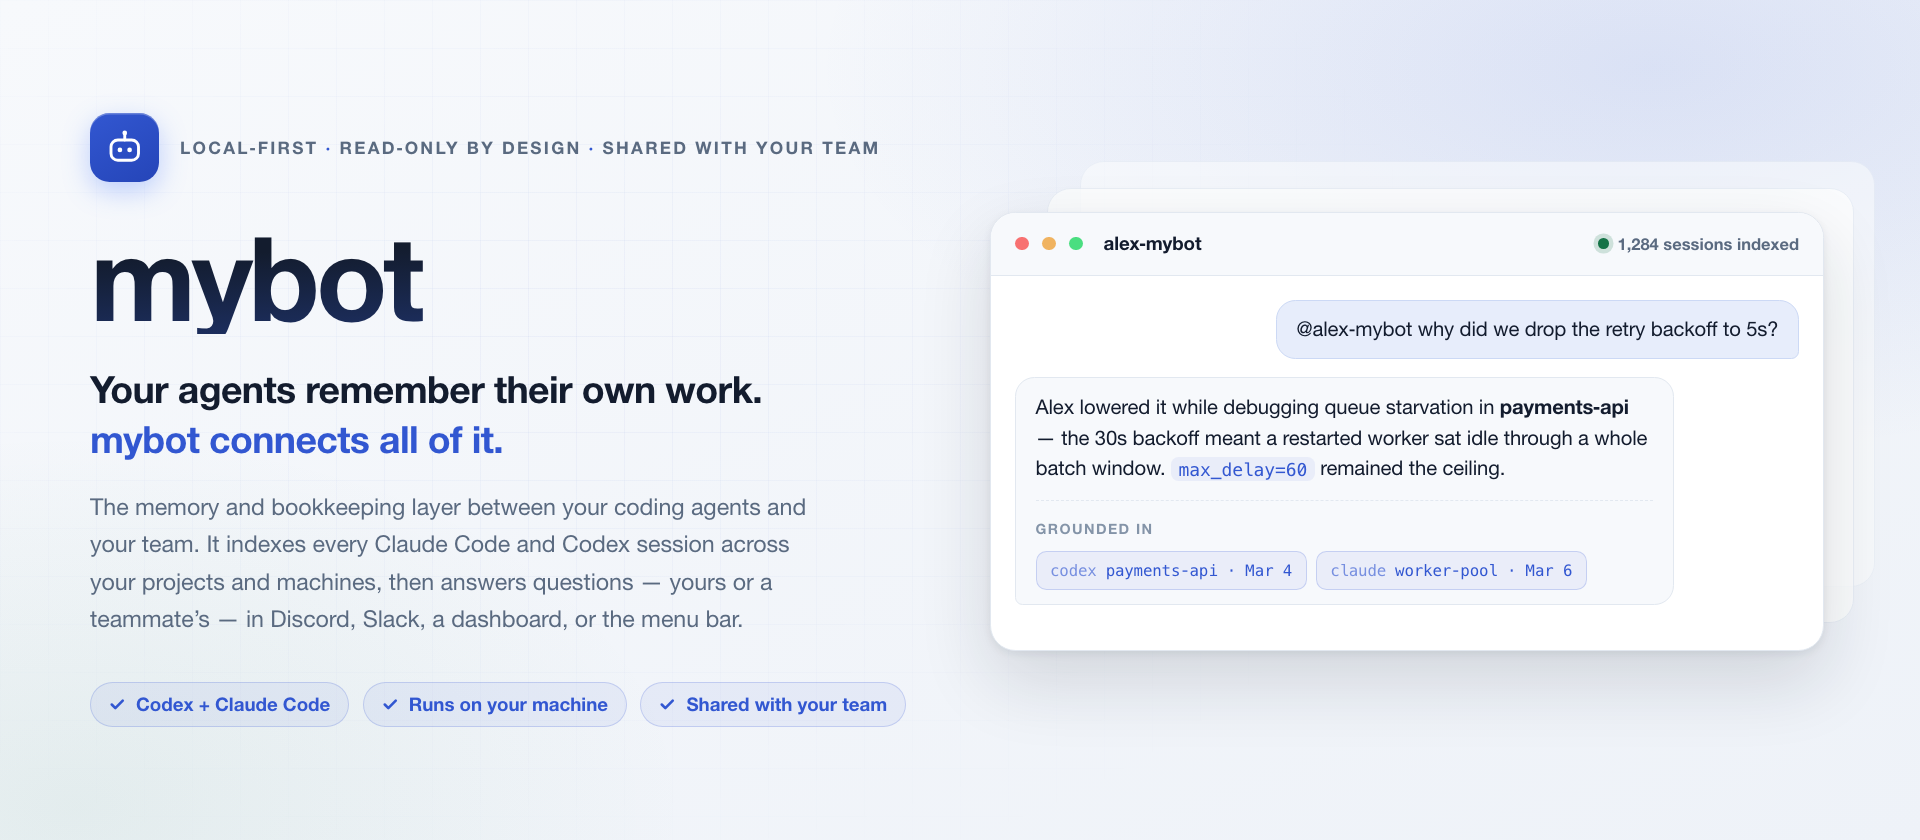
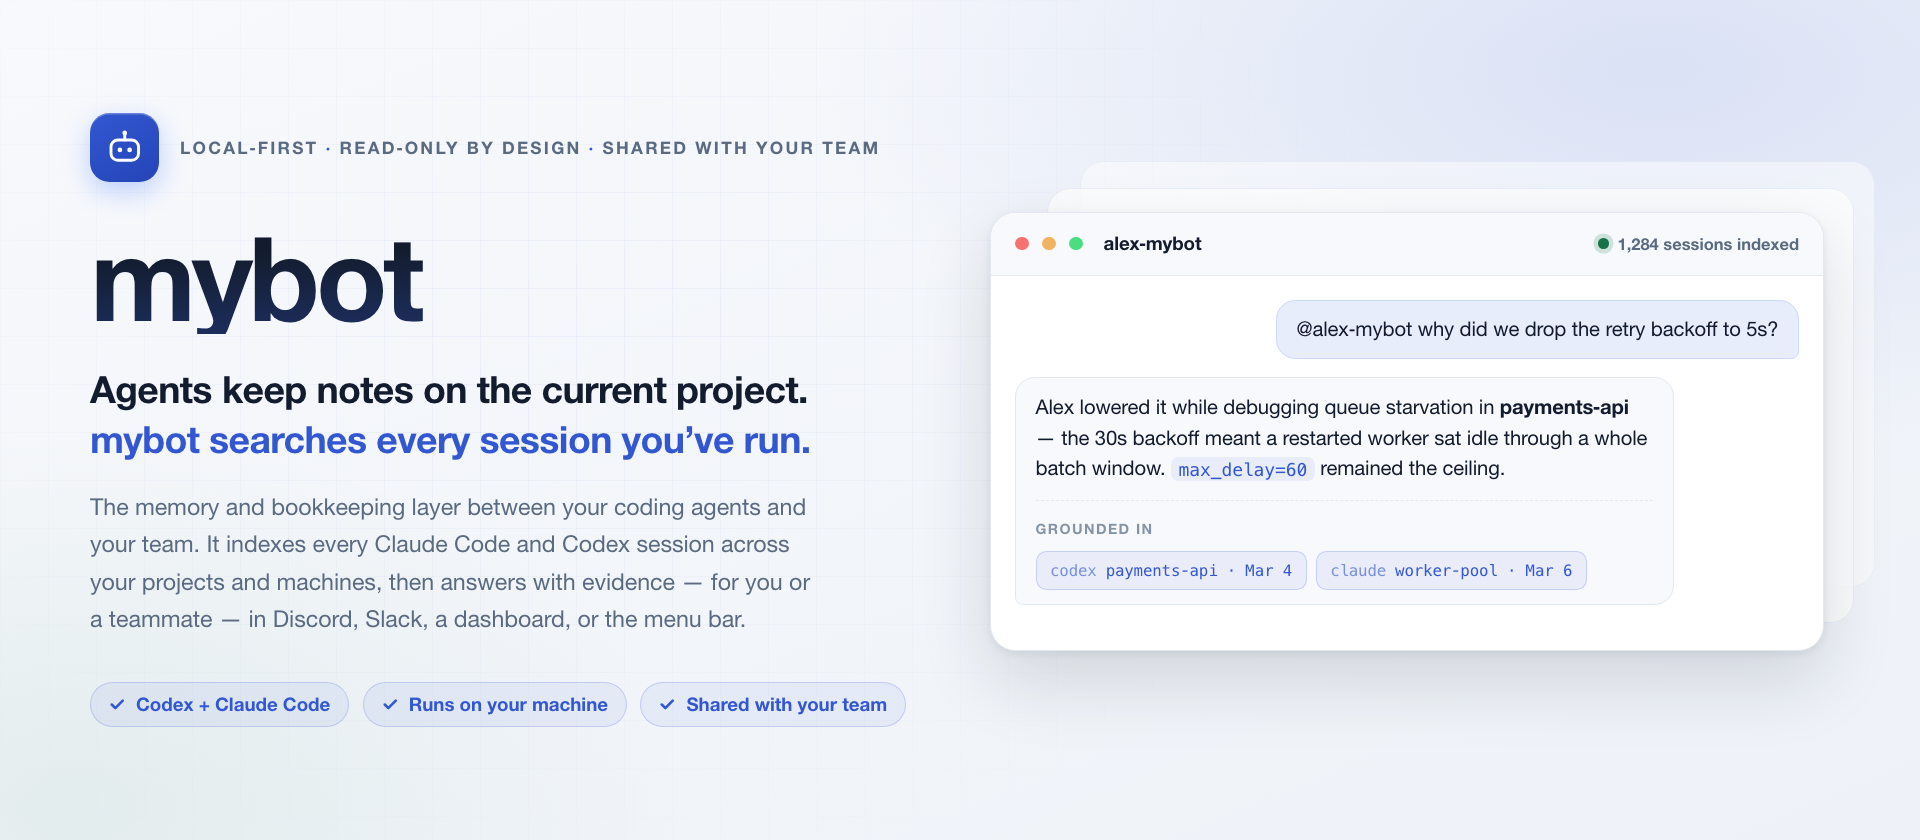
Stop overstating both sides: agent memory, and ecosystem integration
Two corrections to the framing:

- Claude Code and Codex do keep some memory (per-project instruction files,
  session resume). The previous line credited them with more than that, having
  earlier credited them with less. State what they actually do, and put the
  distinction where it belongs: neither does retrieval over everything you have
  done, across tools, machines, and people.
- The sibling projects do not integrate with mybot. Rename the section to
  "Related projects", say plainly that nothing plugs in today, and drop mybot's
  own row from the table so it stops reading as a four-part system. The only
  point of contact — indexing orchestrator-launched Claude Code/Codex sessions
  and honoring the agent-session marker — is named as incidental.

Hero tagline follows the same correction: "Agents keep notes on the current
project. / mybot searches every session you've run."

Changed region(s): [[0.0312, 0.4333, 0.4375, 0.5571], [0.0312, 0.681, 0.4062, 0.7429]]

diff --git a/docs/assets/hero.html b/docs/assets/hero.html
@@ -237,12 +237,12 @@
 
       <h1>mybot</h1>
 
-      <div class="tagline">Your agents remember their own work.<br><em>mybot connects all of it.</em></div>
+      <div class="tagline">Agents keep notes on the current project.<br><em>mybot searches every session you&rsquo;ve run.</em></div>
 
       <div class="sub">
         The memory and bookkeeping layer between your coding agents and your team. It
         indexes every Claude Code and Codex session across your projects and machines,
-        then answers questions &mdash; yours or a teammate&rsquo;s &mdash; in Discord,
+        then answers with evidence &mdash; for you or a teammate &mdash; in Discord,
         Slack, a dashboard, or the menu bar.
       </div>
 

diff --git a/README.md b/README.md
@@ -15,16 +15,18 @@
 
 ---
 
-Claude Code and Codex each remember their own work — a project's conventions, a
-session's history. What neither reaches across is the boundary: another tool,
-another project, another machine, another person. That boundary is usually where
-the context you actually need is sitting.
+Claude Code and Codex carry a little memory of their own: instruction files you
+keep per project, and the ability to resume a recent session. What neither does
+is retrieval — searching everything you have actually done, across both tools,
+every project, every machine, and every teammate, and answering with evidence.
+That is usually where the context you need is sitting.
 
-mybot is the memory and bookkeeping layer across those boundaries. It indexes
-every Claude Code and Codex transcript on your machine into a local searchable
-index, then puts a retrieval agent in front of it: ask in plain language and it
-searches, refines its own queries, reopens the sessions that look relevant, and
-answers with dates and links back to the exact transcript window it used.
+mybot fills that gap — the memory and bookkeeping layer between your coding
+agents and your team. It indexes every Claude Code and Codex transcript on your
+machine into a local searchable index, then puts an agent in front of it: ask in
+plain language and it searches, refines its own queries, reopens the sessions
+that look relevant, and answers with dates and links back to the exact
+transcript window it used.
 Nothing leaves your machine — the index, the embeddings, and the model calls to
 your local CLI all stay local.
 
@@ -42,20 +44,23 @@ same page stops being blocked on human latency.
 - *"@alex-mybot what did Alex decide about the schema?"* — asked by a teammate,
   answered from Alex's own sessions, without interrupting Alex.
 
-## Where mybot fits
+## Related projects
 
-mybot is one piece of a small set of tools for working alongside agents rather
-than around them:
+Other tools built around the same problem — working alongside agents rather than
+around them. **None of them integrate with mybot today**; they are listed because
+they may be useful next to it, not because they plug into it.
 
 | Project | What it is |
 |---|---|
 | [nebula-notebook](https://github.com/jzhoulab/nebula-notebook) | An agent-native notebook — you and your AI work in the same cells |
 | [hop](https://github.com/jzthree/hop) | Terminal access for humans and agents: browser terminals plus an MCP server for creating, driving, and auditing agent sessions |
-| [burrow](https://github.com/jzthree/burrow) | A macOS menu-bar manager for SSH tunnels and userspace VPN gateways, for reaching the machines the work runs on |
-| **mybot** | The memory and bookkeeping layer connecting agents and people across all of those contexts |
+| [burrow](https://github.com/jzthree/burrow) | A macOS menu-bar manager for SSH tunnels and userspace VPN gateways, for reaching the machines work runs on |
 
-The other three give agents and humans places to work and ways to reach them.
-mybot is what remembers what happened there, and lets anyone on the team ask.
+The one point of contact is incidental: if an orchestrator launches Claude Code
+or Codex on a machine mybot already watches, those transcripts get indexed like
+any other, and mybot recognizes the
+[agent-session marker](docs/agent-session-convention.md) a launcher can prepend
+so such runs are classified as automated rather than as your own work.
 
 ## Quickstart
 
